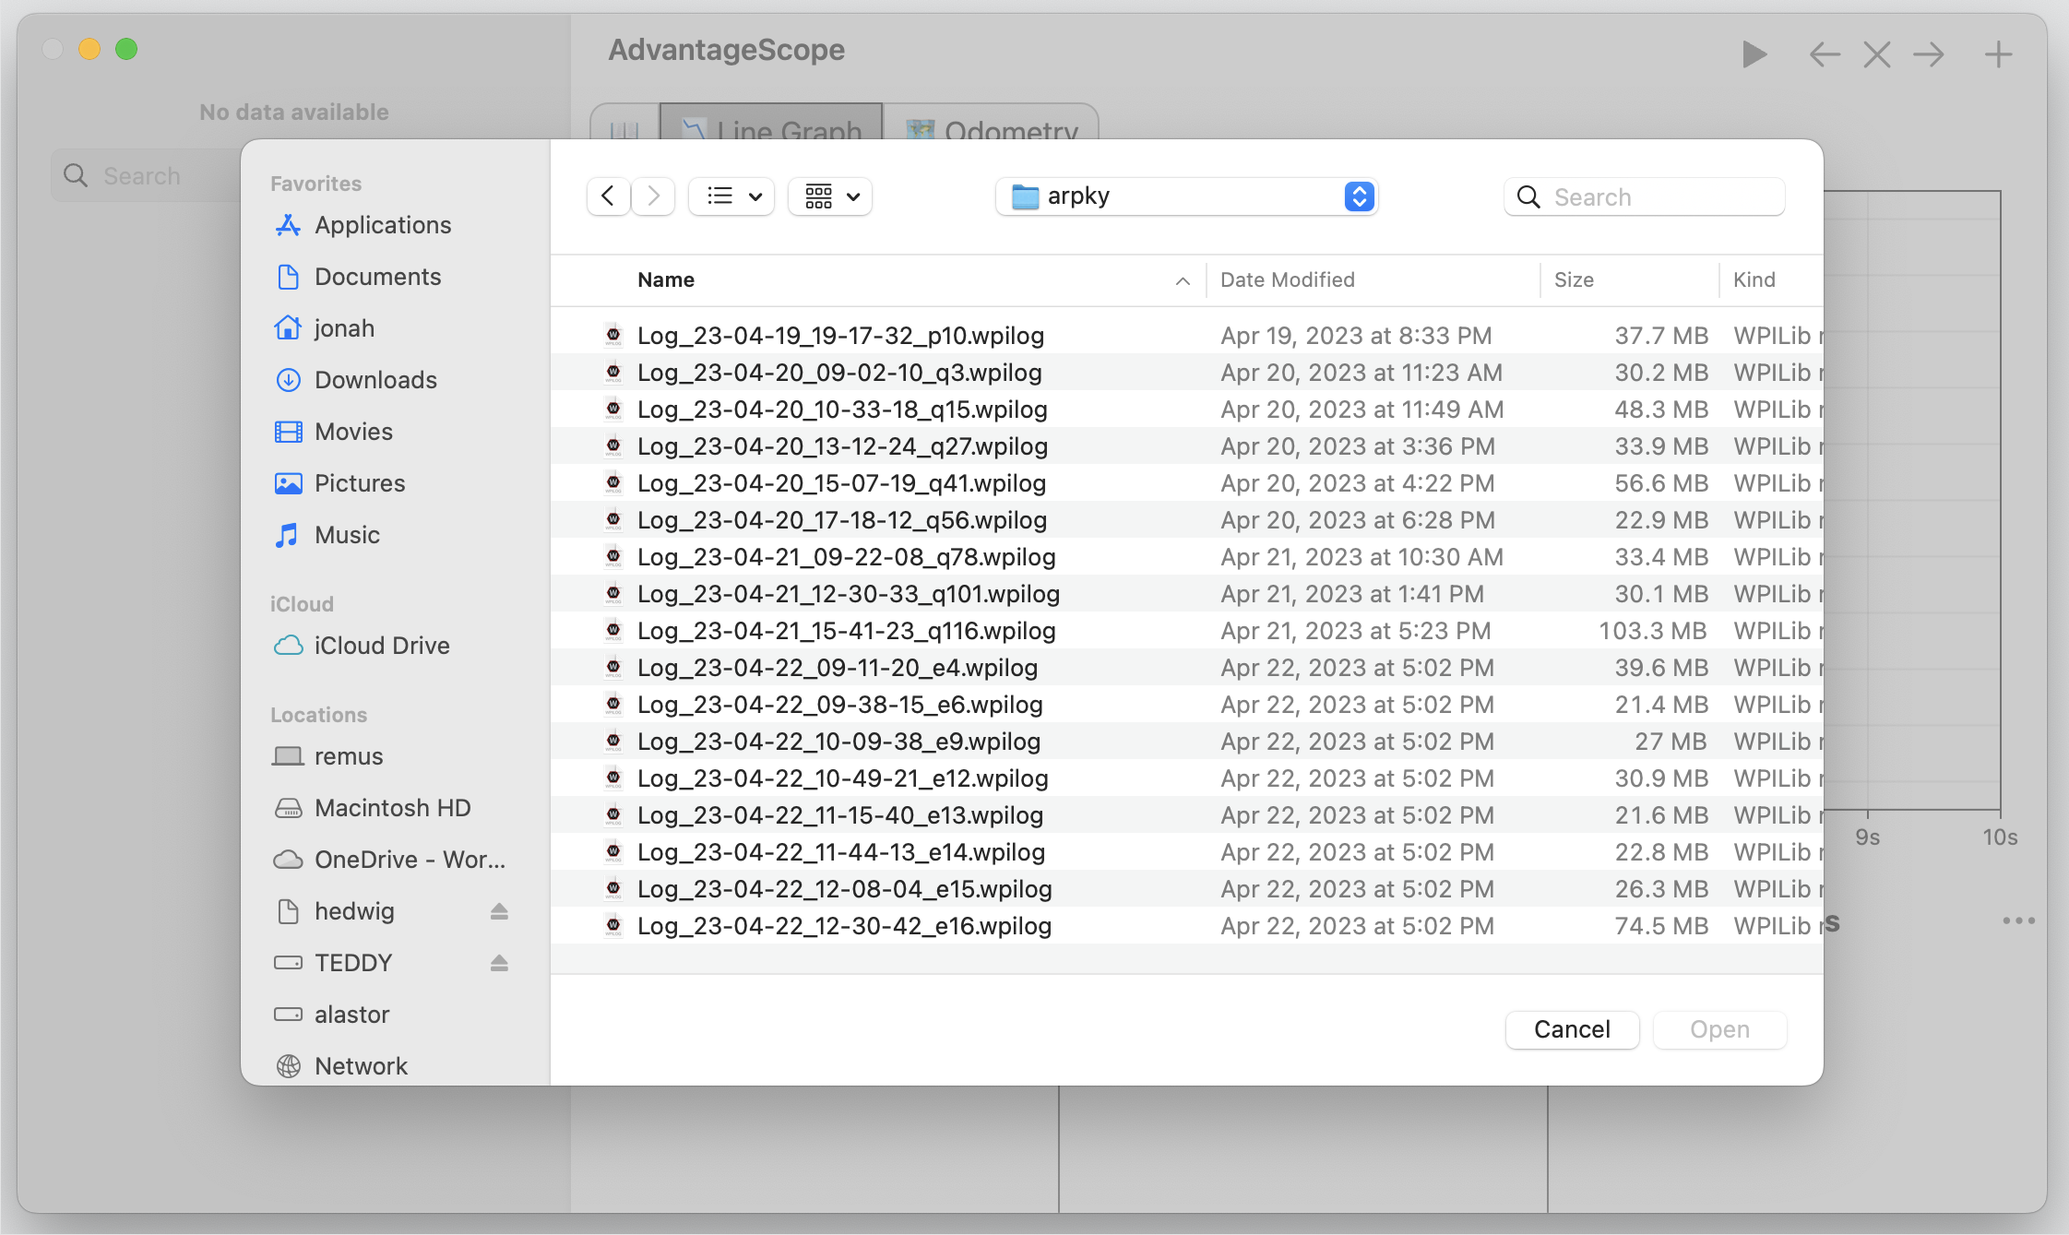
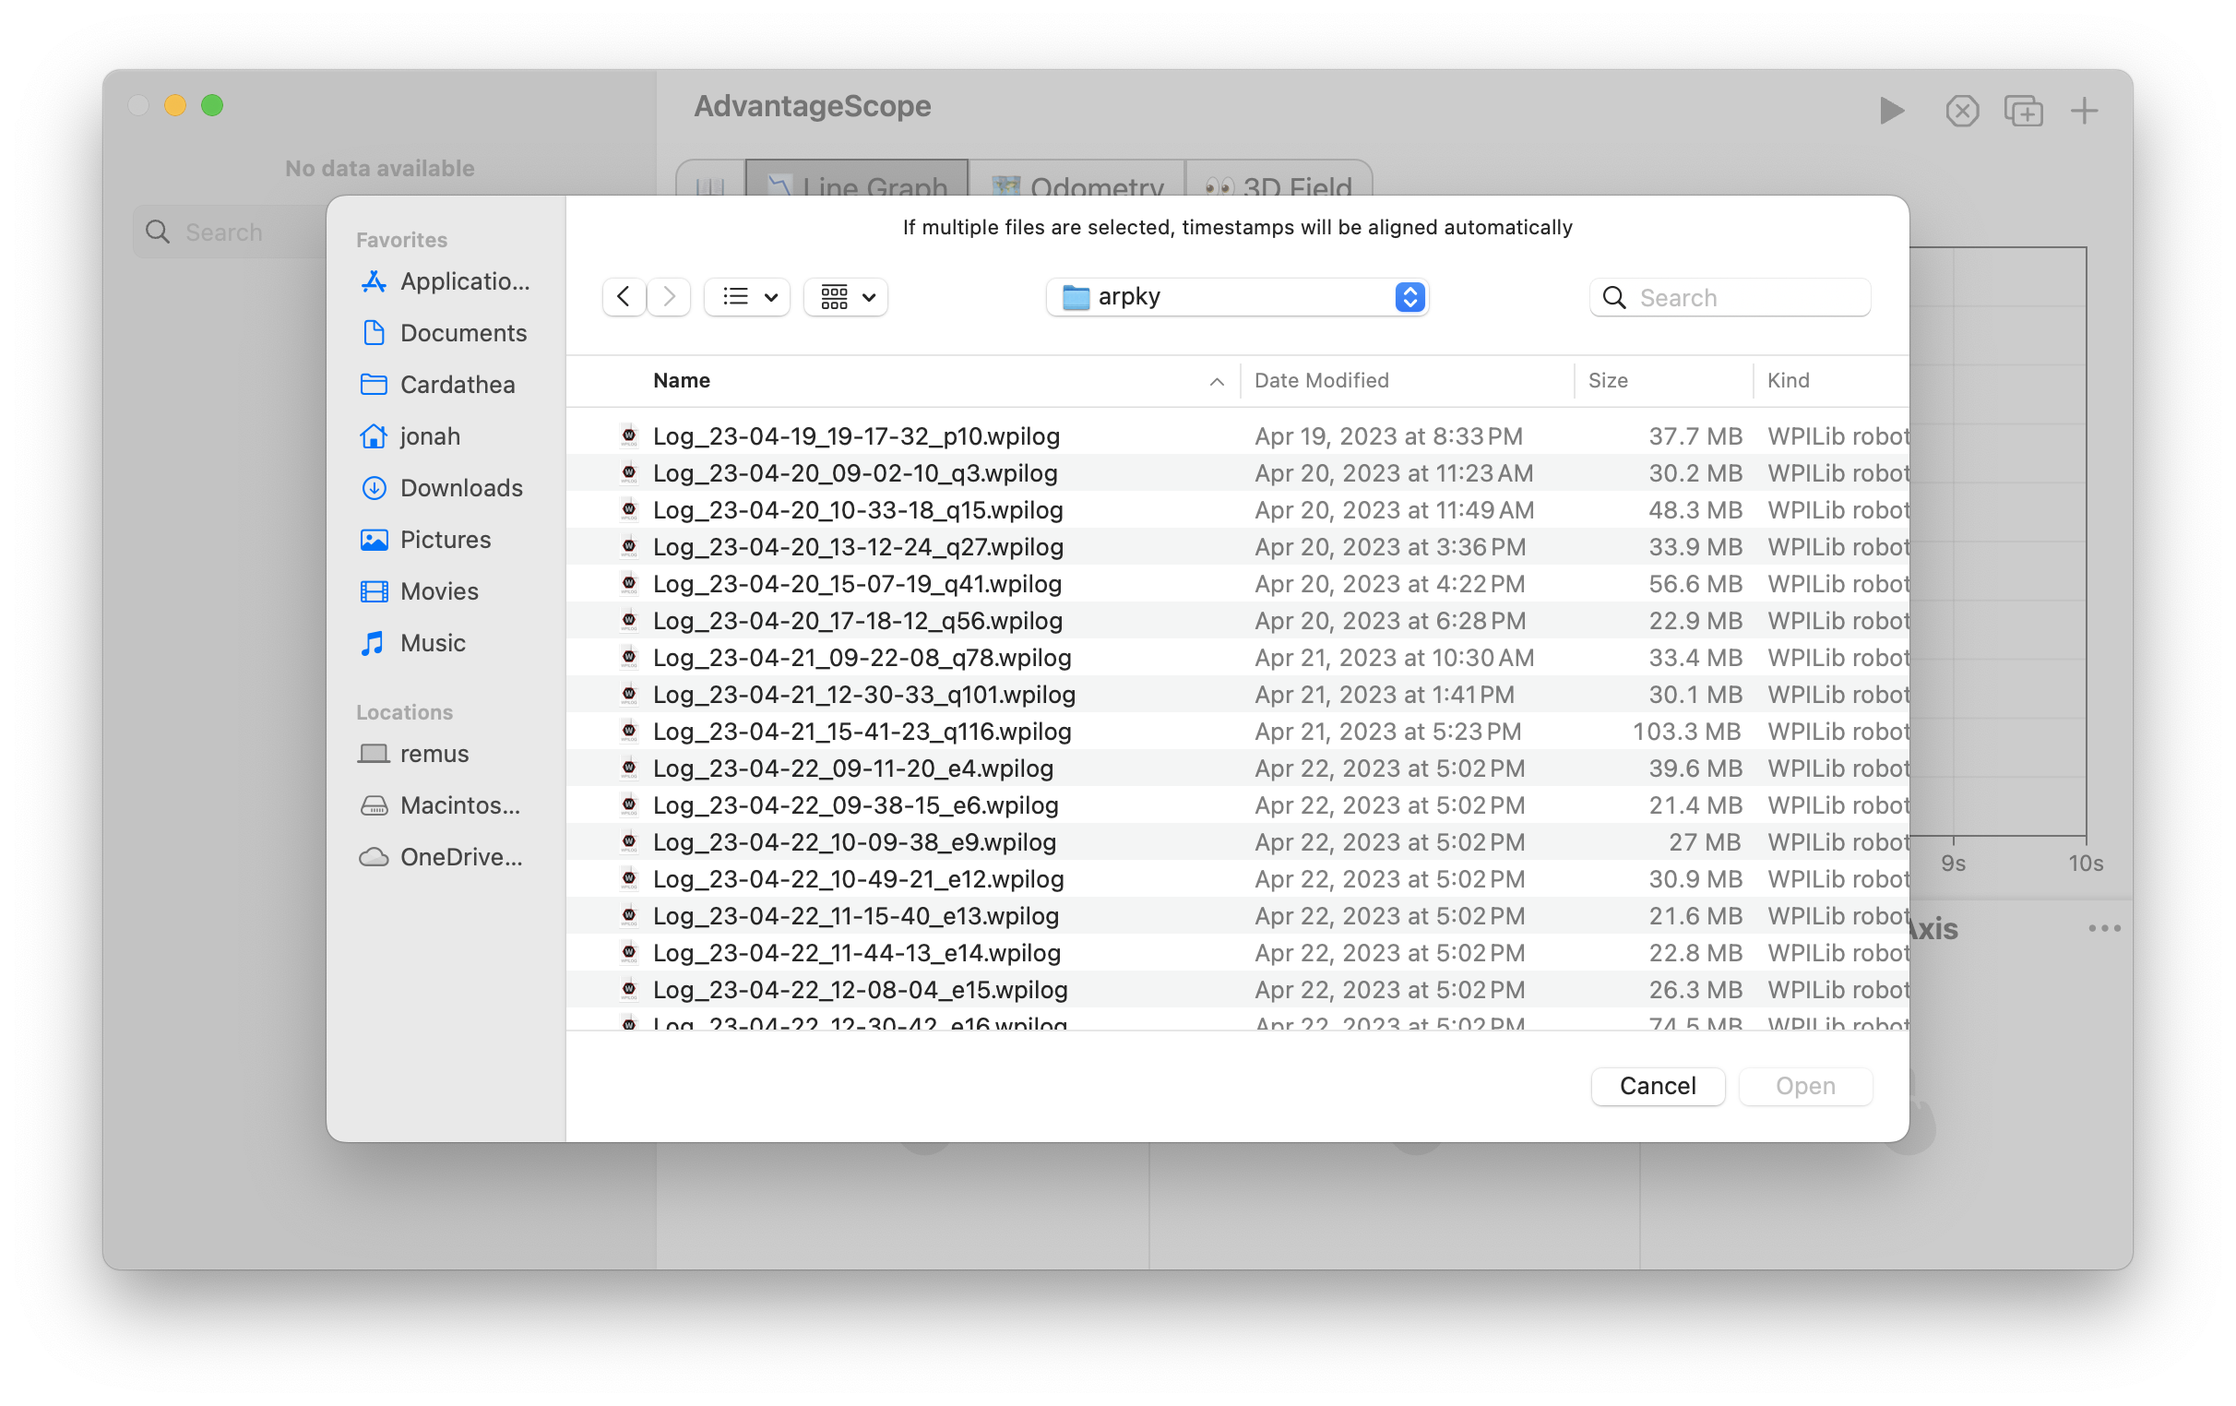
Update "Getting Started" section of docs

diff --git a/docsSite/docs/getting-started/connect-live.md b/docsSite/docs/getting-started/connect-live.md
@@ -1,0 +1,77 @@
+---
+sidebar_position: 3
+---
+
+import PrefsImage from './img/prefs.png';
+import Image1 from './img/open-live-1.png';
+
+# Connecting to Live Sources
+
+All visualizations in AdvantageScope are designed to receive live data from a robot or simulator in addition to log files. This section describes how to connect to real time data sources.
+
+## Configuration
+
+Open the preferences window by clicking `Help` > `Show Preferences...` (Windows/Linux) or `AdvantageScope` > `Settings...` (macOS).
+
+<img src={PrefsImage} alt="Diagram of roboRIO preferences" height="350" />
+
+### roboRIO Address
+
+Enter the roboRIO address using a 10.TE.AM.2 IP address as described in the [WPILib docs](https://docs.wpilib.org/en/stable/docs/networking/networking-introduction/ip-configurations.html#te-am-ip-notation). Click `File` > `Use USB roboRIO Address` to temporarily use the IP address `172.22.11.2` for all connections.
+
+### Live Source
+
+The following sources of live data are supported by AdvantageScope:
+
+- **NetworkTables 4:** This is WPILib's primary networking protocol. See the [WPILib documentation](https://docs.wpilib.org/en/stable/docs/software/networktables/index.html) for more details.
+- **NetworkTables 4 (AdvantageKit):** This mode is designed for use with robot code running AdvantageKit, which publishes to the `AdvantageKit` table in NetworkTables.
+- **Phoenix Diagnostics:** This mode uses HTTP to connect to a Phoenix [diagnostic server](https://pro.docs.ctr-electronics.com/en/latest/docs/installation/running-diagnostics.html), which allows for data streaming from CTRE CAN devices with [Phoenix 6](https://pro.docs.ctr-electronics.com/en/latest/). This is similar to the [plotting feature](https://pro.docs.ctr-electronics.com/en/latest/docs/tuner/plotting.html) in Phoenix Tuner.
+- **PathPlanner 2023:** Legacy, this mode connects using the `PathPlannerServer` protocol used for telemetry by PathPlanner 2023. The connection is always initiated on port 5811. Note that PathPlanner 2024 and later publish telemetry data using NetworkTables, so the **NetworkTables 4** mode should be used.
+- **RLOG Server:** This protocol is supported by AdvantageKit as an alternative to NetworkTables. The connection is initiated on port 5800 by default.
+
+:::warning
+The Phoenix Diagnostics live mode may experience issues as a result of Phoenix updates. If this mode does not function properly, update to the latest version of AdvantageScope. If the issue persists, please [open an issue](https://github.com/Mechanical-Advantage/AdvantageScope/issues) to let us know.
+:::
+
+### Live Mode
+
+When NetworkTables is used as the live source, the following live modes can be selected:
+
+- **Low Bandwidth (Default):** AdvantageScope only requests data from the server for fields that are actively being used. Data published before a field was selected will not be available. This mode is **highly recommended** when running in an environment with limited network bandwidth, or when a large number of fields are being published.
+- **Logging:** AdvantageScope requests data for all fields regardless of whether they are actively being used. This means that fields can be viewed retroactively by pausing the stream of live data (see below). This mode is often useful during development but **should NOT be used when bandwidth is limited**.
+
+### Discard Live Data
+
+During a live connection, data is stored locally to allow for replay of past data (see "Viewing Live Data" below). To avoid very high memory usage, data is discarded after 20 minutes by default. A shorter period can be selected to reduce memory usage, or "Never" can be selected to store live data indefinitely.
+
+## Starting the Connection
+
+To start the connection to a robot (using the configured "roboRIO Address") or a simulator (using "127.0.0.1"), follow these steps:
+
+- **Robot:** Click `File` > `Connect to Robot`
+- **Simulator:** Click `File` > `Connect to Simulator`
+
+The window title displays the IP address and the text "Searching" until the robot/sim is connected. It attempts to reconnect automatically using the same settings after a disconnect.
+
+## Viewing Live Data
+
+When connected to a live source, AdvantageScope locks all tabs to the current time by default. Views like the 📉 [Line Graph](../tab-reference/line-graph.md) and 🔢 [Table](../tab-reference/table.md) autoscroll, and views like odometry and joysticks display the current values of each field. Clicking the red arrow button in the navigation bar toggles this lock, enabling viewing and replay of past data.
+
+![Live lock/unlock button](./img/open-live-1.png)
+
+:::tip
+Scrolling to the left in the line graph or timeline unlocks from the current time, and scrolling all the way to the right locks to the current time again.
+:::
+
+## Tuning Mode
+
+Some live sources support live tuning of numeric and boolean values. For example, this feature can be used to [tune controller gains](https://docs.wpilib.org/en/stable/docs/software/advanced-controls/introduction/tutorial-intro.html) when connected to a NetworkTables source. Note that the robot code must support receiving gains via NetworkTables.
+
+By default, all values in AdvantageScope are read-only. To toggle tuning mode, **click the slider icon** to the right of the search bar when connected to a supported live source. When the icon is purple, tuning mode is active and field editing is enabled.
+
+- To edit a **numeric field**, enter a new value using the text box to the right of the field in the sidebar. The value is published after the input is deselected or the "Enter" key is pressed. Leave the text box blank to use the robot-published value.
+- To toggle a **boolean field**, click the red or green circle to the right of the field in the sidebar.
+
+:::warning
+This feature is not intended for controlling the robot on the field. Dashboard-style inputs like choosers, trigger buttons, etc. are not supported.
+:::

diff --git a/docsSite/docs/getting-started/navigation.md b/docsSite/docs/getting-started/navigation.md
@@ -6,9 +6,11 @@ sidebar_position: 1
 
 The screenshot below shows the important elements of the main AdvantageScope window. The exact appearance differs between operating systems.
 
-> Note: To view multiple log files simultaneously, click "File" > "New Window" or press **cmd/ctrl + N**.
-
 ![Navigation diagram](./img/navigation-1.png)
+
+:::tip
+To view multiple log files simultaneously, click `File` > `New Window`.
+:::
 
 ## Sidebar
 
@@ -16,37 +18,33 @@ To the left is the sidebar with the list of available tables and fields. Selecta
 
 To search for a field, begin typing in the search box. A dropdown of fields will display, then the selected field will be highlighted in the sidebar and scrolled into view.
 
-> Note: Click and drag on the right edge to resize or hide the sidebar.
-
-![Dragging a field from the sidebar](./img/navigation-2.png)
+:::info
+Click and drag on the right edge to resize or hide the sidebar. Double-click to toggle the sidebar visibility.
+:::
 
 ## Tab Bar
 
-Use the tab bar (blue) to switch between different views. This documentation is available at any time by clicking the 📖 icon to the left. To export the current tab layout (and associated settings), click "File" > "Export Layout..." To import a layout from a file, click "File" > "Import Layout..."
+Use the tab bar (blue) to switch between different views. This documentation is available at any time by clicking the 📖 icon to the left. To export the current tab layout (and associated settings), click `File` > `Export Layout...` To import a layout from a file, click `File` > `Import Layout...`
 
-> Note: Tabs can be named to identify their contents. Rename a tab by right-clicking it and selecting "Rename..."
+:::info
+Tabs can be rearrange by clicking and dragging, or renamed by right-clicking and selecting `Rename...`
+:::
 
-## Navigation Buttons & Playback
+The navigation buttons (green) on the top manage the tabs and control playback.
 
-The navigation buttons (green) on the top manage the tabs and control playback. The "+" icon adds a new tab (this can be accessed quickly by pressing **cmd/ctrl + T**). The "X" icon closes the selected tab (**cmd/ctrl + W**) and the arrow buttons move the selected tab left or right (**cmd/ctrl + [ OR ]**). Quickly switch between tabs using the arrow keys (**cmd/ctrl + ← OR →**).
+- **Plus Button**: Opens a dropdown menu to create a new tab.
+- **Window Button:** Creates a new pop-out window with the tab tab. This feature can be used to view data from multiple tabs simultaneously.
+- **X Button:** Closes the current tab.
+- **Play Button:** Start and stop real-time playback. _Right-click to change playback speed._
 
-![Choosing a tab type](./img/navigation-3.png)
+## Viewer Pane
 
-The selected time is synchronized between all tabs, including the line graph, table, field views, and more. Press **←** or **→** to step forward and backward in the log while paused. Playback can be toggled using the play/pause button or by pressing the **space bar**. To adjust the playback speed, **right-click** on the play/pause button.
+The viewer pane is where data is presented for each tab type. Check the tab reference documentation for details on the viewer pane for tab. This view can be moved to a separate window by clicking the pop-out button in the tab bar.
 
-> Note: Stepping through the log uses a 20ms period by default, and uses the synchronized loop cycle times when viewing an AdvantageKit log.
+## Control Pane
 
-## Window Pop-Out
+The control pane is used to select fields for visualization and manage other options. Check the tab reference documentation for details on the options available for each tab.
 
-It is often useful to view multiple tabs at the same time. Since AdvantageScope synchronizes playback across all tabs, it is possible to perform sophisticated analysis by looking at multiple visualizations at once. An example might be viewing video, field odometry, joystick inputs, and performance graphs all together. Tabs that support pop-out have an additional "Add Window" icon just below the navigation/playback controls.
-
-> Note: When using pop-out windows, playback is controlled from the main AdvantageScope window.
-
-![Creating a pop-out window](./img/navigation-4.png)
-
-## Touch Bar
-
-Navigation is possible using the Touch Bar on supported MacBooks. The slider can be used to scrub through the log, and the "+" button adds a new tab.
-
-![Touch Bar scrubbing interface](./img/navigation-5.png)
-![Touch Bar new tab interface](./img/navigation-6.png)
+:::info
+Click and drag on the top edge to resize or hide the control pane. Double-click to toggle the control pane visibility.
+:::

diff --git a/docsSite/docs/getting-started/keyboard.md b/docsSite/docs/getting-started/keyboard.md
@@ -1,0 +1,91 @@
+---
+sidebar_position: 4
+---
+
+# Keyboard Shortcuts
+
+AdvantageScope includes numerous keyboard shortcuts that allow for faster navigation. Shortcuts that use the `ctrl` key are replaced by the ⌘ key on macOS.
+
+### Data Sources
+
+<table>
+<tr><td>`Ctrl+O`</td><td>Open one or more log files</td></tr>
+<tr><td>`Ctrl+Shift+O`</td><td>Add one or more log files to the current visualization</td></tr>
+<tr><td>`Ctrl+K`</td><td>Connect to robot as a live source</td></tr>
+<tr><td>`Ctrl+Shift+K`</td><td>Connect to simulator as a live source</td></tr>
+<tr><td>`Ctrl+D`</td><td>Download log files from the robot</td></tr>
+<tr><td>`Option+Z`</td><td>Load Zebra MotionWorks™ data</td></tr>
+</table>
+
+### Data Export
+
+<table>
+<tr><td>`Ctrl+E`</td><td>Export log data</td></tr>
+<tr><td>`Ctrl+P`</td><td>Publish log data to a NetworkTables server on the robot</td></tr>
+<tr><td>`Ctrl+Shift+P`</td><td>Publish log data to a NetworkTables server in simulation</td></tr>
+<tr><td>`Option+Ctrl+P`</td><td>Stop publishing to NetworkTables</td></tr>
+</table>
+
+### Window Controls
+
+<table>
+<tr><td>`Ctrl+N`</td><td>Create a new window</td></tr>
+<tr><td>`Ctrl+Shift+N`</td><td>Close the current window</td></tr>
+<tr><td>`Ctrl+Comma`</td><td>Open preferences window</td></tr>
+<tr><td>`Ctrl+Period`</td><td>Toggle sidebar visibility</td></tr>
+<tr><td>`Ctrl+Slash`</td><td>Toggle control pane visibility</td></tr>
+</table>
+
+### Tab Controls
+
+<table>
+<tr><td>`Ctrl+T`</td><td>Open dropdown to add a new tab</td></tr>
+<tr><td>`Ctrl+Shift+T`</td><td>Create a new pop-out window for the current tab</td></tr>
+<tr><td>`Ctrl+Left` and `Ctrl+Right`</td><td>Switch tabs</td></tr>
+<tr><td>`Ctrl+[` and `Ctrl+]`</td><td>Rearrange tabs</td></tr>
+<tr><td>`Ctrl+W`</td><td>Close current tab</td></tr>
+</table>
+
+**The shortcuts below can be used to quickly create new tabs:**
+
+<table>
+<tr>
+<td>`Option+G`</td><td>[📉 Line Graph](../tab-reference/line-graph.md)</td>
+<td>`Option+V`</td><td>[🎬 Video](../tab-reference/video.md)</td>
+</tr>
+<tr>
+<td>`Option+O`</td><td>[🗺 Odometry](../tab-reference/odometry.md)</td>
+<td>`Option+J`</td><td>[🎮 Joysticks](../tab-reference/joysticks.md)</td>
+</tr>
+<tr>
+<td>`Option+3`</td><td>[👀 3D Field](../tab-reference/3d-field.md)</td>
+<td>`Option+D`</td><td>[🦀 Swerve](../tab-reference/swerve.md)</td>
+</tr>
+<tr>
+<td>`Option+T`</td><td>[🔢 Table](../tab-reference/table.md)</td>
+<td>`Option+M`</td><td>[⚙ Mechanism](../tab-reference/mechanism.md)</td>
+</tr>
+<tr>
+<td>`Option+C`</td><td>[💬 Console](../tab-reference/console.md)</td>
+<td>`Option+P`</td><td>[📍 Points](../tab-reference/points.md)</td>
+</tr>
+<tr>
+<td>`Option+S`</td><td>[📊 Statistics](../tab-reference/statistics.md)</td>
+<td>`Option+I`</td><td>[🔍 Metadata](../tab-reference/metadata.md)</td>
+</tr>
+</table>
+
+### Playback
+
+<table>
+<tr><td>`Space`</td><td>Toggle playback</td></tr>
+<tr><td>`Left` and `Right`</td><td>Step through log file</td></tr>
+<tr><td>`L`</td><td>Toggle lock when viewing live data</td></tr>
+</table>
+
+### Touch Bar
+
+On supported MacBook models, the Touch Bar can be used to scrub through the log and add new tabs.
+
+![Touch Bar scrubbing interface](./img/keyboard-1.png)
+![Touch Bar new tab interface](./img/keyboard-2.png)

diff --git a/docsSite/docs/getting-started/manage-files.md b/docsSite/docs/getting-started/manage-files.md
@@ -1,0 +1,53 @@
+---
+sidebar_position: 2
+---
+
+import PrefsImage from './img/prefs.png';
+import Image2 from './img/open-file-2.png';
+
+# Managing Log Files
+
+## Supported Formats
+
+- **WPILOG (.wpilog)** - Produced by WPILib's [built-in data logging](https://docs.wpilib.org/en/stable/docs/software/telemetry/datalog.html) and AdvantageKit. [URCL](../more-features/urcl.md) can be used to capture signals from REV motor controllers to a WPILOG file.
+- **Driver Station logs (.dslog and .dsevents)** - Produced by the [FRC Driver Station](https://docs.wpilib.org/en/stable/docs/software/driverstation/driver-station.html). AdvantageScope automatically searches for the corresponding log file when opening either log type.
+- **Hoot (.hoot)** - Produced by CTRE's Phoenix 6 [signal logger](https://pro.docs.ctr-electronics.com/en/latest/docs/api-reference/api-usage/signal-logging.html).
+- **RLOG (.rlog)** - Legacy, produced by AdvantageKit 2022.
+
+:::warning
+Hoot files can **only be opened on Windows** and require an installation of [Phoenix Tuner X](https://v6.docs.ctr-electronics.com/en/stable/docs/tuner/index.html).
+:::
+
+## Opening Logs
+
+In the menu bar, click `File` > `Open Log(s)...`, then choose a one or more log files from the local disk. Dragging a log file from the system file browser to the AdvantageScope icon or window also causes it to open.
+
+:::info
+If multiple files are opened simultaneously, the timestamps will be aligned automatically. This enables easy comparison of log files from multiple sources.
+:::
+
+![Opening a saved log](./img/open-file-1.png)
+
+## Adding New Logs
+
+After opening a log file, additional logs can be easily added to the visualization. Timestamps will be realigned automatically to synchronize with existing data.
+
+In the menu bar, click `File` > `Add News Log(s)...`, then choose a one or more log files to add to the current visualization. The fields from each log will be recorded under tables named `Log0`, `Log1`, etc.
+
+## Downloading from a roboRIO
+
+<details>
+<summary>Configuration</summary>
+
+Open the preferences window by clicking `Help` > `Show Preferences...` (Windows/Linux) or `AdvantageScope` > `Settings...` (macOS). Update the roboRIO address and log folder. Click `File` > `Use USB roboRIO Address` to temporarily use the IP address `172.22.11.2` for all connections.
+
+<img src={PrefsImage} alt="Diagram of roboRIO preferences" height="350" />
+</details>
+
+Click `File` > `Download Logs...` to open the download window. Once connected to the roboRIO, available logs are shown with the newest at the top. Select one or more log files to download (shift-click to select a range or **cmd/ctrl + A** to select all). Then click the ↓ symbol and select a save location.
+
+:::tip
+When downloading multiple files, AdvantageScope skips any that already exist in the destination folder.
+:::
+
+<img src={Image2} alt="Downloading log files" height="350" />
